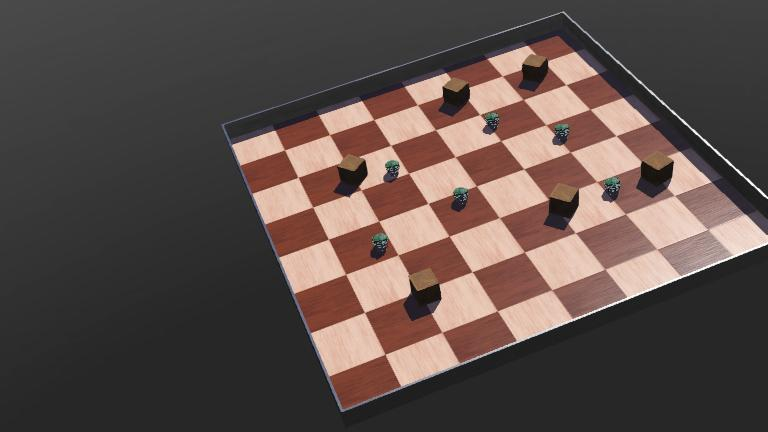
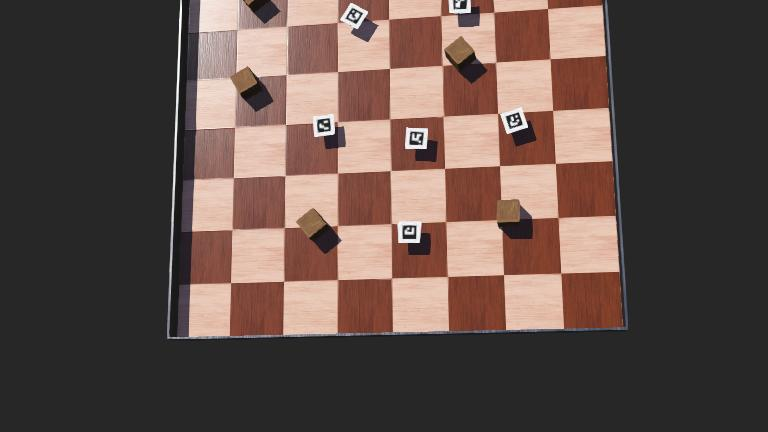
add tags at the head of the pi-puck, and add camera to supervisorRobot

diff --git a/controllers/supervisor_python_controller/supervisor_python_controller.py b/controllers/supervisor_python_controller/supervisor_python_controller.py
@@ -1,5 +1,7 @@
 from controller import Supervisor
 import json
+import numpy as np
+import matplotlib.pyplot as plt
 
 def find_all_wooden_boxes(node, boxes):
     if node.getTypeName() == 'WoodenBox':
@@ -32,9 +34,12 @@ for i in range(root_children_field.getCount()):
     find_all_robots(node, robots)
 
 emitter = supervisor.getDevice("emitter")
+camera = supervisor.getDevice("camera")
 
 # Get the time step of the current world
 timestep = int(supervisor.getBasicTimeStep())
+
+camera.enable(timestep)
 
 last_send_time = 0
 send_interval = 1000  # 1 second
@@ -42,6 +47,10 @@ send_interval = 1000  # 1 second
 # Main loop
 while supervisor.step(timestep) != -1:
     current_time = supervisor.getTime() * 1000
+
+    # cameraData = camera.getImage();
+    # image = np.frombuffer(cameraData, np.uint8).reshape((camera.getHeight(), camera.getWidth(), 4))
+    # plt.imsave('output_image.png', image)
 
     # Check if it's time to send data
     if current_time - last_send_time >= send_interval:
